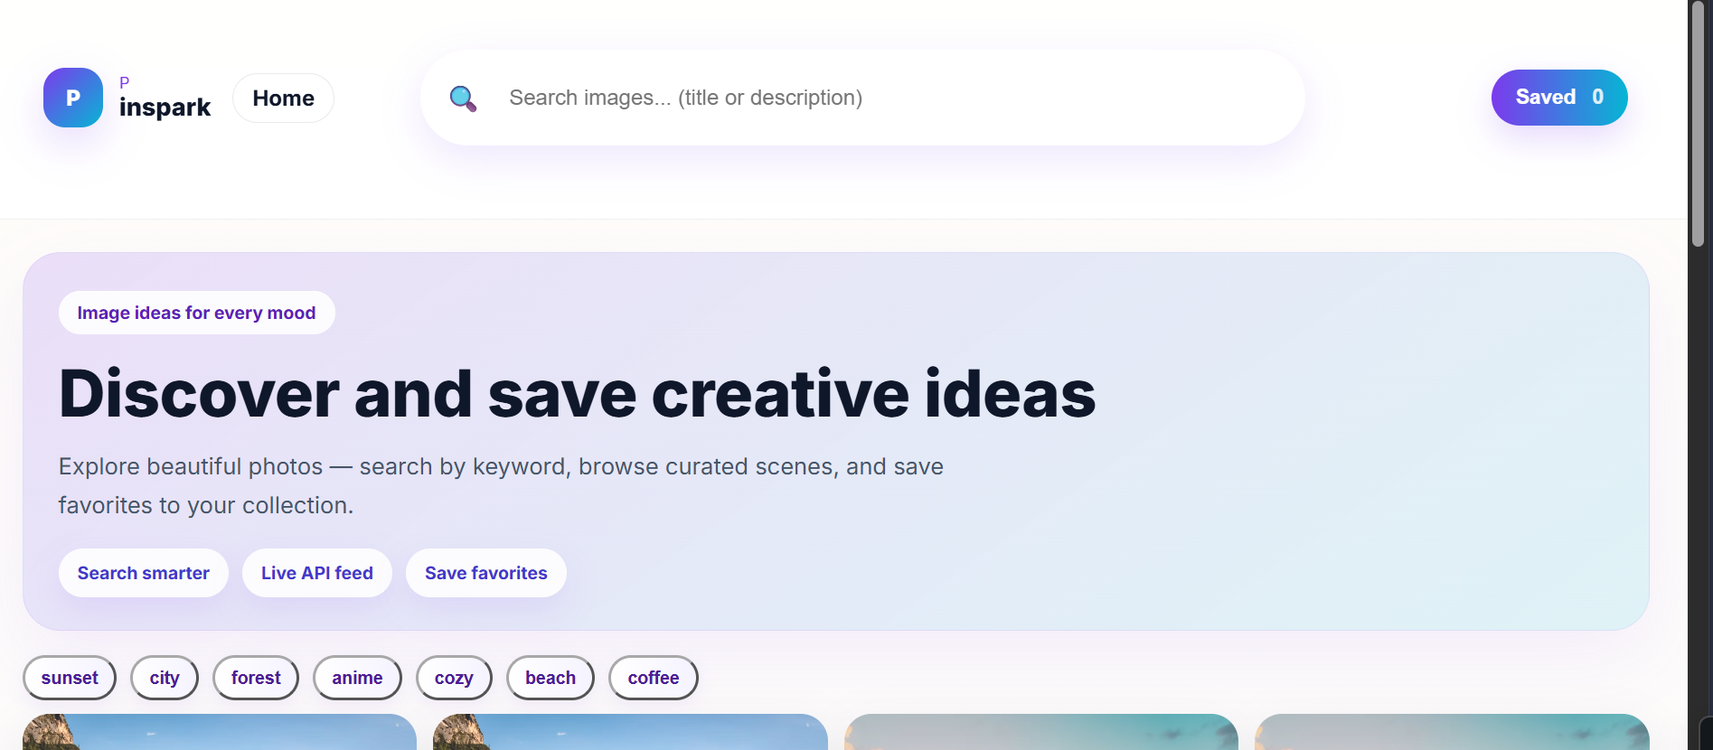
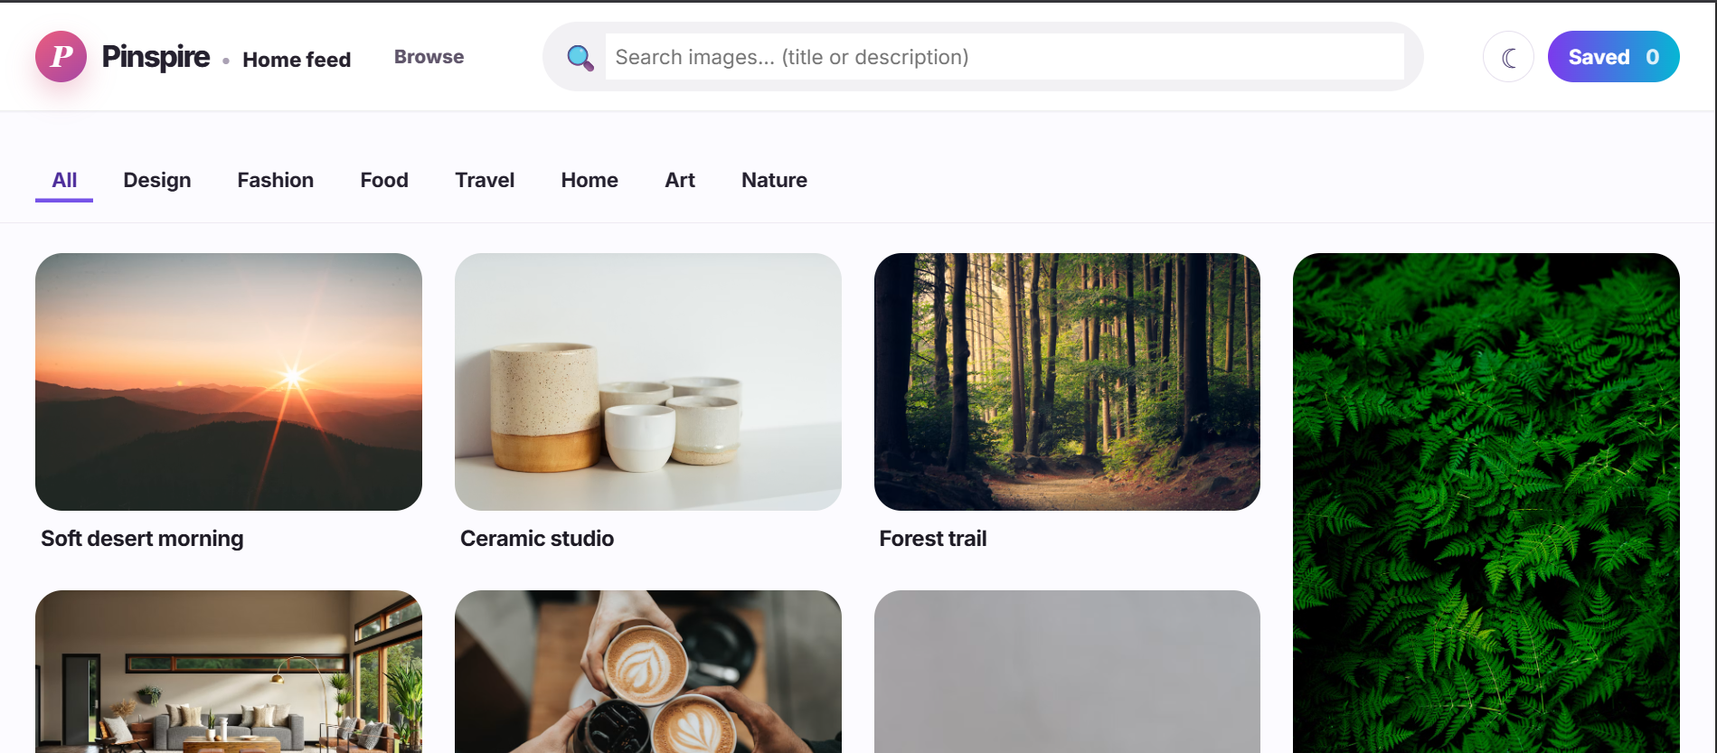
final commit

diff --git a/src/styles.css b/src/styles.css
@@ -1,47 +1,58 @@
-:root {
-  --gap: 12px;
-}
-body { font-family: Inter, system-ui, Arial, sans-serif; margin:0; background: linear-gradient(180deg, #fffdf9 0%, #f8f7ff 100%); color: #111 }
-.site-header { padding: 12px 20px; border-bottom: 1px solid rgba(2,6,23,0.06); background: rgba(255,255,255,0.82); backdrop-filter: blur(10px) }
-.top-nav { position: sticky; top: 0; z-index: 40; background: rgba(255,255,255,0.9) }
+:root { --gap: 16px; --ink: #20242d; --purple: #7653e8; }
+* { box-sizing: border-box; }
+body { font-family: Inter, ui-sans-serif, system-ui, -apple-system, BlinkMacSystemFont, "Segoe UI", sans-serif; margin:0; background: #fcfbff; color: var(--ink) }
+.site-header { padding: 12px 20px; border-bottom: 1px solid rgba(32,36,45,0.07); background: rgba(255,255,255,0.86); backdrop-filter: blur(18px) saturate(1.2) }
+.top-nav { position: sticky; top: 0; z-index: 40; }
 .logo a { font-weight: 700; font-size: 20px; color: #0f172a; text-decoration: none }
-.container { padding: 24px; max-width: 1200px; margin: 0 auto }
+.container { padding: 28px 24px; max-width: 1360px; margin: 0 auto }
 .main-area { padding-bottom: 64px }
-.hero { padding: 28px 26px 24px; background: linear-gradient(145deg, rgba(124,58,237,0.15), rgba(6,182,212,0.12)); border-radius: 28px; margin-bottom: 18px; border: 1px solid rgba(124,58,237,0.08); box-shadow: 0 18px 50px rgba(124,58,237,0.08); }
-.hero-badge { display: inline-flex; align-items: center; gap: 8px; padding: 8px 14px; margin-bottom: 18px; border-radius: 999px; background: rgba(255,255,255,0.88); font-size: 13px; font-weight: 700; color: #5b21b6; box-shadow: inset 0 1px 0 rgba(255,255,255,0.7); }
-.hero-title { margin: 0; font-size: clamp(32px, 4vw, 48px); color:#0f172a; letter-spacing:-0.4px; font-weight:800; line-height:1.05 }
-.hero-sub { margin: 14px 0 0; color:#475569; font-size: 17px; max-width: 720px; line-height:1.7 }
-.hero-row { margin-top: 18px; display:flex; flex-wrap:wrap; gap: 10px }
-.pill { padding: 10px 14px; border-radius:999px; background: rgba(255,255,255,0.88); color:#4338ca; font-weight:700; font-size:13px; box-shadow: 0 10px 24px rgba(124,58,237,0.10); }
-.site-header .header-inner { display:grid; grid-template-columns: 260px minmax(640px, 1fr) 220px; align-items:center; gap:18px }
+.hero { position:relative; isolation:isolate; overflow:hidden; padding:25px 34px; min-height:126px; background:linear-gradient(120deg,#241b43 0%,#4a2d87 52%,#7a4db2 100%); border-radius:24px; margin-bottom:20px; box-shadow:0 18px 42px rgba(66,43,129,.20); }
+.hero > :not(.hero-glow) { position:relative; z-index:2; }
+.hero-glow { position:absolute; z-index:1; border-radius:50%; pointer-events:none; }
+.hero-glow-one { width:180px; height:180px; right:-25px; top:-95px; background:rgba(255,183,105,.45); }
+.hero-glow-two, .hero-sub, .hero-row { display:none; }
+.hero-badge { display:inline-flex; align-items:center; gap:8px; padding:8px 12px; margin-bottom:20px; border-radius:999px; background:rgba(255,255,255,.14); border:1px solid rgba(255,255,255,.24); font-size:12px; font-weight:700; color:#fff; }
+.hero-kicker { margin:0 0 5px; color:#d7caff; font-size:12px; letter-spacing:.1em; text-transform:uppercase; font-weight:700; }
+.hero-kicker strong { color:#fff; }
+.hero-title { margin:0; max-width:700px; font-size:clamp(32px,4vw,44px); color:#fff; letter-spacing:-.055em; font-weight:800; line-height:1 }
+.hero-title span { color:#f8c767; }
+.hero-sub { margin:9px 0 0; color:rgba(255,255,255,.82); font-size:15px; max-width:570px; line-height:1.5 }
+.hero-row { margin-top:15px; display:flex; flex-wrap:wrap; gap:8px }
+.pill { padding:9px 13px; border-radius:999px; background:rgba(255,255,255,.12); border:1px solid rgba(255,255,255,.16); color:#fff; font-weight:650; font-size:13px; }
+.site-header .header-inner { display:grid; grid-template-columns:275px minmax(240px,1fr) 150px; align-items:center; gap:22px; padding-top:0; padding-bottom:0 }
 .left-block { display:flex; align-items:center; gap:16px }
-.brand-link { display:flex; align-items:center; gap:12px; text-decoration:none }
+.brand-link { display:flex; align-items:center; gap:11px; text-decoration:none }
 .brand { display:flex; align-items:center; gap:12px }
-.brand-icon { width:44px; height:44px; border-radius:16px; background:linear-gradient(135deg,#7c3aed,#06b6d4); color:#fff; font-weight:800; display:grid; place-items:center; box-shadow:0 12px 30px rgba(124,58,237,0.18) }
+.brand-icon { width:46px; height:46px; border-radius:15px; background:linear-gradient(145deg,#eb5d7e,#a747a4); color:#fff; font-size:25px; font-family:Georgia,serif; font-weight:800; font-style:italic; display:grid; place-items:center; box-shadow:0 9px 20px rgba(210,71,112,.28) }
 .brand-text { display:flex; flex-direction:column; justify-content:center }
-.brand-label { font-size:12px; letter-spacing:2px; text-transform:uppercase; color:#7c3aed; }
-.brand-name { font-size:18px; font-weight:800; color:#0f172a; }
+.brand-label { font-size:9px; line-height:1; letter-spacing:1.2px; text-transform:uppercase; color:#8b8594; font-weight:800; order:2; margin-top:3px; }
+.brand-name { font-size:24px; line-height:.95; letter-spacing:-1.25px; font-weight:850; color:#25212f; }
 .nav-left { display:flex; gap:10px; align-items:center }
-.nav-pill { background:#fff; border-radius:999px; padding:8px 14px; border:1px solid rgba(71,85,105,0.12); text-decoration:none; color:#0f172a; font-weight:700; transition: transform .2s ease, box-shadow .2s ease }
+.nav-pill { background:#f1eef9; border-radius:999px; padding:9px 15px; border:1px solid transparent; text-decoration:none; color:#493b70; font-size:14px; font-weight:750; transition:transform .2s ease,box-shadow .2s ease }
 .nav-pill:hover { transform: translateY(-1px); box-shadow: 0 10px 24px rgba(124,58,237,0.10) }
 .center-block { display:flex; justify-content:center }
 .center-block .search { width: 100%; max-width: 980px }
 .right-block { display:flex; align-items:center; gap:12px; justify-self:end }
-.saved-pill { padding: 14px 22px; border-radius:999px; background: linear-gradient(90deg,#7c3aed,#06b6d4); color:#fff; font-weight:800; font-size:15px; box-shadow:0 14px 30px rgba(124,58,237,0.20); border:none }
+.theme-toggle { width:40px; height:40px; padding:0; display:grid; place-items:center; border:1px solid #e5dfed; border-radius:50%; background:#fff; color:#493b70; font-size:20px; cursor:pointer; transition:transform .2s ease,background .2s ease; }
+.theme-toggle:hover { transform:translateY(-2px); background:#f1eef9; }
+.saved-pill { padding:12px 18px; border-radius:999px; background:#292332; color:#fff; font-weight:800; font-size:14px; box-shadow:0 10px 22px rgba(32,27,39,.16); border:none; cursor:pointer; transition:transform .2s ease,box-shadow .2s ease }
+.saved-pill:hover { transform:translateY(-2px); box-shadow:0 14px 26px rgba(32,27,39,.24); }
 .saved-count { margin-left: 8px; opacity:0.85; }
 .icon-btn { background:transparent; border:none; font-size:18px; cursor:pointer }
 .nav-link { color:#374151; text-decoration:none; font-weight:600 }
 .avatar { width:36px; height:36px; display:inline-grid; place-items:center; background:linear-gradient(135deg,#7c3aed,#06b6d4); color:#fff; border-radius:999px; font-weight:700 }
 .saved-pill { padding: 12px 18px; border-radius:999px; background: linear-gradient(90deg,#7c3aed,#06b6d4); color:#fff; font-weight:700; font-size:15px; box-shadow:0 10px 24px rgba(124,58,237,0.18) }
 .search { margin: 18px 0 }
-.search-inner { display:flex; align-items:center; gap:10px; background:#fff; border-radius:999px; padding:14px 18px; box-shadow:0 10px 30px rgba(124,58,237,0.12) }
+.search-inner { display:flex; align-items:center; gap:10px; background:#f6f4fa; border:1px solid transparent; border-radius:999px; padding:11px 17px; box-shadow:none; transition:background .2s ease,border-color .2s ease,box-shadow .2s ease }
+.search-inner:focus-within { background:#fff; border-color:rgba(118,83,232,.35); box-shadow:0 0 0 4px rgba(118,83,232,.10); }
 .search input { flex:1; border: none; outline: none; font-size:16px; padding:12px 10px; color:#111827 }
 .search-icon { font-size:20px; color:#8b5cf6 }
 .search-clear { background:transparent; border:none; cursor:pointer; font-size:15px; color:#6b7280 }
 .search-note { margin: 12px 0; padding: 12px 16px; border-radius: 10px; background: #f8fafc; color: #334155; font-size: 14px; border: 1px solid #e2e8f0 }
-.chip-row { margin:14px 0 10px; display:flex; flex-wrap:wrap; gap:10px }
+.chip-row { margin:2px 0 18px; display:flex; flex-wrap:wrap; gap:10px }
 .chips { margin:12px 0; display:flex; gap:8px }
-.chip { padding:7px 12px; background:linear-gradient(90deg,#ffffff,#f5f3ff); border-radius:999px; box-shadow:0 4px 12px rgba(124,58,237,0.08); cursor:pointer; font-size:13px; color:#4c1d95; font-weight:600 }
+.chip { border:1px solid #e6e1ef; padding:8px 14px; background:#fff; border-radius:999px; box-shadow:none; cursor:pointer; font-size:13px; color:#55456f; font-weight:700; transition:all .18s ease }
+.chip:hover { background:#f0ebfc; border-color:#cfc0f0; transform:translateY(-1px); }
 .masonry { column-count:5; column-gap: var(--gap); }
 .provider-switch { display:inline-flex; gap:8px; margin: 8px 0 18px }
 .provider-btn { padding:6px 10px; border-radius:8px; border:1px solid #e6eef8; background:#fff; cursor:pointer; font-weight:600 }
@@ -60,10 +71,10 @@ body { font-family: Inter, system-ui, Arial, sans-serif; margin:0; background: l
 .item-title { font-weight:600 }
 .item-actions { margin-top:6px }
 .collections-nav .chip { display:block; width:100%; text-align:left; margin-bottom:8px }
-.pin { break-inside: avoid; margin-bottom: var(--gap); background: linear-gradient(180deg,#ffffff,#f8f6ff); border-radius: 20px; overflow: hidden; box-shadow: 0 14px 36px rgba(15,23,42,0.09); transition: transform .22s ease, box-shadow .22s ease }
-.pin:hover { transform: translateY(-10px); box-shadow: 0 34px 70px rgba(15,23,42,0.16) }
+.pin { break-inside:avoid; margin-bottom:var(--gap); background:#fff; border-radius:18px; overflow:hidden; box-shadow:0 7px 22px rgba(45,34,63,.09); transition:transform .22s ease,box-shadow .22s ease }
+.pin:hover { transform:translateY(-7px); box-shadow:0 22px 44px rgba(45,34,63,.18) }
 .pin img { width: 100%; display: block; border-bottom: 1px solid rgba(15,23,42,0.06); object-fit: cover; min-height: 240px; }
-.pin-title { padding: 14px 16px; font-size: 15px; color:#111827; font-weight:700; line-height:1.35 }
+.pin-title { padding:13px 15px; font-size:15px; color:#111827; font-weight:700; line-height:1.35; display:-webkit-box; -webkit-box-orient:vertical; -webkit-line-clamp:2; overflow:hidden; }
 .pin-link { display:block; text-decoration:none; color:inherit }
 
 
@@ -73,8 +84,19 @@ body { font-family: Inter, system-ui, Arial, sans-serif; margin:0; background: l
 }
 @media (max-width: 1100px) {
   .masonry { column-count: 3 }
+  .site-header .header-inner { grid-template-columns:245px minmax(180px,1fr) auto; gap:12px }
 }
 @media (max-width: 700px) {
+  .site-header { padding:10px 12px; }
+  .site-header .header-inner { grid-template-columns:1fr auto; gap:10px; }
+  .center-block { grid-column:1 / -1; grid-row:2; }
+  .center-block .search { margin:0; }
+  .nav-left { display:none; }
+  .brand-name { font-size:22px; }
+  .brand-icon { width:40px; height:40px; font-size:22px; }
+  .hero { padding:25px 22px; min-height:0; border-radius:20px; }
+  .hero-title { font-size:36px; }
+  .hero-sub { font-size:15px; }
   .masonry { column-count: 2 }
 }
 @media (max-width: 420px) {
@@ -107,3 +129,119 @@ body { font-family: Inter, system-ui, Arial, sans-serif; margin:0; background: l
 .site-footer .container { display:flex; align-items:center; justify-content:space-between; padding:16px 24px }
 .small { font-size:13px }
 .muted { color:#6b7280 }
+
+/* Home feed layout */
+.site-header { padding:14px 26px; background:#fff; }
+.site-header .header-inner { grid-template-columns:auto minmax(280px, 1fr) auto; max-width:none; padding:0; gap:30px; }
+.left-block { gap:18px; }
+.brand-icon { width:38px; height:38px; border-radius:50%; font-size:22px; }
+.brand-text { flex-direction:row; align-items:baseline; gap:9px; }
+.brand-name { font-size:22px; }
+.brand-label { order:initial; margin:0; font-size:15px; letter-spacing:0; text-transform:none; color:#27222e; font-weight:750; }
+.brand-label::before { content:"•"; margin-right:9px; color:#aaa1b4; }
+.nav-pill { padding:8px 13px; background:transparent; color:#60566b; }
+.center-block .search { margin:0; max-width:650px; }
+.search-inner { background:#f2f1f4; padding:8px 14px; }
+.search input { padding:8px 7px; font-size:15px; }
+.right-block { gap:10px; }
+.theme-toggle { width:38px; height:38px; }
+.saved-pill { padding:10px 15px; box-shadow:none; }
+.main-area { max-width:none; padding:20px 26px 64px; }
+.hero { display:none; }
+.chip-row { position:sticky; top:67px; z-index:20; margin:0 -26px 22px; padding:13px 26px 15px; background:rgba(252,251,255,.93); border-bottom:1px solid #eeeaf2; backdrop-filter:blur(12px); flex-wrap:nowrap; overflow-x:auto; }
+.chip { border:0; padding:8px 12px; background:transparent; color:#25212f; border-radius:4px; font-size:15px; white-space:nowrap; }
+.chip:hover { background:#f0ecf5; border-color:transparent; transform:none; }
+.chip.active { color:#4d2d9b; box-shadow:inset 0 -3px 0 #7653e8; border-radius:0; }
+.masonry { column-gap:24px; }
+.pin { margin-bottom:27px; border-radius:20px; box-shadow:none; background:transparent; overflow:visible; }
+.pin:hover { transform:none; box-shadow:none; }
+.pin figure { overflow:hidden; border-radius:20px; background:#eee; }
+.pin img { border:0; min-height:0; }
+.pin-title { padding:10px 4px 0; color:#1e1b25; font-size:16px; }
+.overlay { border-radius:20px; }
+
+@media (max-width:700px) {
+  .site-header { padding:11px 14px; }
+  .site-header .header-inner { grid-template-columns:1fr auto; }
+  .brand-label, .nav-left { display:none; }
+  .main-area { padding:16px 14px 48px; }
+  .chip-row { top:103px; margin:0 -14px 18px; padding:11px 14px 13px; }
+  .masonry { column-gap:12px; }
+  .pin { margin-bottom:18px; }
+}
+
+/* Dark theme */
+.dark-theme body { background:#17151d; color:#f4f1f8; }
+.dark-theme .site-header { background:rgba(27,24,34,.88); border-color:rgba(255,255,255,.09); }
+.dark-theme .brand-name { color:#faf8ff; }
+.dark-theme .brand-label { color:#b7afc3; }
+.dark-theme .nav-pill { background:#332d41; color:#f0eaff; }
+.dark-theme .theme-toggle { background:#332d41; border-color:#4b435c; color:#ffe49a; }
+.dark-theme .theme-toggle:hover { background:#41394f; }
+.dark-theme .saved-pill { background:#f1ecf8; color:#292332; box-shadow:none; }
+.dark-theme .search-inner { background:#2a2632; }
+.dark-theme .search-inner:focus-within { background:#332e3e; border-color:#9276e9; }
+.dark-theme .search input { background:transparent; color:#f8f5ff; }
+.dark-theme .search-clear { color:#c7bed2; }
+.dark-theme .chip { background:#28232f; border-color:#443c50; color:#e7ddf5; }
+.dark-theme .chip:hover { background:#393143; border-color:#74638d; }
+.dark-theme .pin, .dark-theme .collections-panel, .dark-theme .collection-item, .dark-theme .site-footer { background:#27222e; }
+.dark-theme .pin-title, .dark-theme .item-title { color:#f6f2fb; }
+.dark-theme .collections-header, .dark-theme .collections-nav { border-color:#443c50; }
+.dark-theme .search-note { background:#282330; border-color:#443c50; color:#ddd5e8; }
+.dark-theme .muted, .dark-theme .no-results { color:#c6bdd2; }
+
+/* Dark feed refinements */
+.dark-theme body { background:#141219; color:#f5f1f8; }
+.dark-theme .site-header { background:rgba(22,19,28,.96); border-bottom-color:#302a38; }
+.dark-theme .brand-label { color:#beb5ca; }
+.dark-theme .brand-label::before { color:#746a80; }
+.dark-theme .nav-pill { background:#302940; color:#e7def2; }
+.dark-theme .nav-pill:hover { background:#40364f; }
+.dark-theme .search-inner { background:#292430; border-color:#332c3c; }
+.dark-theme .search-inner:focus-within { background:#302a38; border-color:#9a7cf2; box-shadow:0 0 0 4px rgba(154,124,242,.13); }
+.dark-theme .search-icon { color:#bd9cff; }
+.dark-theme .saved-pill { background:#eee8f7; color:#30283a; }
+.dark-theme .theme-toggle { background:#302940; border-color:#493e55; color:#ffd477; }
+.dark-theme .main-area { background:#141219; }
+.dark-theme .chip-row { background:rgba(25,22,31,.96); border-bottom-color:#332c3c; }
+.dark-theme .chip { background:transparent; color:#cfc5da; }
+.dark-theme .chip:hover { background:#2e2837; color:#fff; }
+.dark-theme .chip.active { background:#302940; color:#fff; box-shadow:inset 0 -3px 0 #a985ff; }
+.dark-theme .pin { background:#211c28; border-radius:20px; padding-bottom:3px; }
+.dark-theme .pin figure { border-radius:18px 18px 0 0; }
+.dark-theme .pin-title { color:#f4eefb; padding:12px 13px 13px; }
+.dark-theme .pin:hover { background:#2a2432; }
+.dark-theme .overlay { border-radius:18px 18px 0 0; }
+
+/* Final interface polish */
+html { scroll-behavior:smooth; }
+button, input { font:inherit; }
+button:focus-visible, a:focus-visible, input:focus-visible { outline:3px solid rgba(118,83,232,.42); outline-offset:3px; }
+.site-header { box-shadow:0 1px 0 rgba(36,29,48,.04); }
+.brand-link { transition:opacity .18s ease; }
+.brand-link:hover { opacity:.82; }
+.search-inner { min-height:46px; border:1px solid transparent; }
+.search-icon { width:22px; text-align:center; }
+.search-clear { width:28px; height:28px; border-radius:50%; display:grid; place-items:center; }
+.search-clear:hover { background:rgba(89,73,117,.1); }
+.saved-pill, .theme-toggle { transition:transform .18s ease, background .18s ease, box-shadow .18s ease; }
+.saved-pill:active, .theme-toggle:active { transform:scale(.96); }
+.chip-row { scrollbar-width:none; }
+.chip-row::-webkit-scrollbar { display:none; }
+.chip { font-weight:700; letter-spacing:-.01em; }
+.pin { transition:background .2s ease, transform .2s ease; }
+.pin figure { aspect-ratio:auto; }
+.pin img { transition:transform .35s cubic-bezier(.2,.65,.3,1), filter .35s ease; }
+.pin:hover img { transform:scale(1.025); filter:brightness(.94); }
+.pin-title { letter-spacing:-.02em; }
+.overlay-actions .btn { background:#fff; color:#292332; box-shadow:0 8px 20px rgba(0,0,0,.2); }
+.overlay-actions .btn.saved { background:#8c69e8; color:#fff; }
+.collections-panel { border:1px solid rgba(40,32,50,.12); border-radius:18px; box-shadow:0 28px 80px rgba(22,17,29,.25); }
+.collections-header { padding:18px 20px; }
+.collections-header h3 { margin:0; font-size:18px; letter-spacing:-.02em; }
+.collection-item { transition:background .18s ease; }
+.collection-item:hover { background:#f4f1f8; }
+.dark-theme .collections-panel { border-color:#403849; box-shadow:0 28px 80px rgba(0,0,0,.45); }
+.dark-theme .collection-item:hover { background:#302a38; }
+.dark-theme .overlay-actions .btn { background:#f6f1ff; color:#2d2338; }

diff --git a/src/pages/Home.jsx b/src/pages/Home.jsx
@@ -4,7 +4,7 @@ import MasonryGrid from '../shared/MasonryGrid'
 import data from '../data/sample.json'
 import { searchPexels } from '../lib/pexels'
 import { searchPixabay } from '../lib/pixabay'
-import { searchUnsplash } from '../lib/unsplash'
+import { searchPhotos as searchUnsplash } from '../lib/unsplash'
 import Footer from '../shared/Footer'
 
 export default function Home({ query, setQuery, onSave, onRemove, isSaved }) {
@@ -17,7 +17,7 @@ export default function Home({ query, setQuery, onSave, onRemove, isSaved }) {
   const hasPexelsKey = !!import.meta.env.VITE_PEXELS_API_KEY
   const hasPixabayKey = !!import.meta.env.VITE_PIXABAY_API_KEY
   const hasUnsplashKey = !!import.meta.env.VITE_UNSPLASH_API_KEY || !!import.meta.env.VITE_UNSPLASH_ACCESS_KEY
-  const suggestions = ['sunset', 'city', 'forest', 'anime', 'cozy', 'beach', 'coffee']
+  const suggestions = ['All', 'Design', 'Fashion', 'Food', 'Travel', 'Home', 'Art', 'Nature']
 
   const handleSuggestion = (value) => {
     setQuery(value)
@@ -100,19 +100,20 @@ export default function Home({ query, setQuery, onSave, onRemove, isSaved }) {
     <div className="page-root">
       <main className="container main-area">
         <div className="hero">
-          <div className="hero-badge">Image ideas for every mood</div>
-          <h1 className="hero-title">Discover and save creative ideas</h1>
+          <div className="hero-glow hero-glow-one" aria-hidden="true" />
+          <div className="hero-glow hero-glow-two" aria-hidden="true" />
+          <p className="hero-kicker">Discover ideas</p>
+          <h1 className="hero-title">Pinspire</h1>
           <p className="hero-sub">Explore beautiful photos — search by keyword, browse curated scenes, and save favorites to your collection.</p>
           <div className="hero-row">
-            <span className="pill">Search smarter</span>
-            <span className="pill">Live API feed</span>
-            <span className="pill">Save favorites</span>
+            <span className="pill">Explore</span>
+            <span className="pill">Save</span>
           </div>
         </div>
 
         <div className="chip-row">
           {suggestions.map(term => (
-            <button key={term} type="button" className="chip" onClick={() => handleSuggestion(term)}>
+            <button key={term} type="button" className={`chip ${(!query && term === 'All') || query.toLowerCase() === term.toLowerCase() ? 'active' : ''}`} onClick={() => handleSuggestion(term === 'All' ? '' : term)}>
               {term}
             </button>
           ))}

diff --git a/src/shared/Header.jsx b/src/shared/Header.jsx
@@ -2,20 +2,20 @@ import React from 'react'
 import { Link } from 'react-router-dom'
 import SearchBar from './SearchBar'
 
-export default function Header({ value, onChange, onToggleCollections, savedCount=0 }) {
+export default function Header({ value, onChange, onToggleCollections, savedCount=0, isDark, onToggleTheme }) {
   return (
     <header className="site-header top-nav">
       <div className="header-inner container">
         <div className="left-block">
           <Link to="/" className="brand-link">
-            <div className="brand-icon">P</div>
+            <div className="brand-icon" aria-hidden="true">P</div>
             <div className="brand-text">
-              <span className="brand-label">P</span>
-              <span className="brand-name">inspark</span>
+              <span className="brand-name">Pinspire</span>
+              <span className="brand-label">Home feed</span>
             </div>
           </Link>
           <nav className="nav-left">
-            <Link to="/" className="nav-pill">Home</Link>
+            <Link to="/" className="nav-pill">Browse</Link>
           </nav>
         </div>
 
@@ -24,6 +24,9 @@ export default function Header({ value, onChange, onToggleCollections, savedCoun
         </div>
 
         <div className="right-block">
+          <button className="theme-toggle" type="button" onClick={onToggleTheme} aria-label={`Switch to ${isDark ? 'light' : 'dark'} theme`} title={`Switch to ${isDark ? 'light' : 'dark'} theme`}>
+            <span aria-hidden="true">{isDark ? '☀' : '☾'}</span>
+          </button>
           <button className="saved-pill" onClick={onToggleCollections}>
             Saved <span className="saved-count">{savedCount}</span>
           </button>

diff --git a/src/App.jsx b/src/App.jsx
@@ -6,11 +6,13 @@ import Header from './shared/Header'
 import Collections from './shared/Collections'
 
 const STORAGE_KEY = 'pc_collections'
+const THEME_KEY = 'pc_theme'
 
 export default function App() {
   const [query, setQuery] = useState('')
   const [collections, setCollections] = useState({ Saved: [] })
   const [showCollections, setShowCollections] = useState(false)
+  const [isDark, setIsDark] = useState(() => localStorage.getItem(THEME_KEY) === 'dark')
 
   useEffect(() => {
     try {
@@ -24,6 +26,11 @@ export default function App() {
   useEffect(() => {
     try { localStorage.setItem(STORAGE_KEY, JSON.stringify(collections)) } catch (e) {}
   }, [collections])
+
+  useEffect(() => {
+    document.documentElement.classList.toggle('dark-theme', isDark)
+    try { localStorage.setItem(THEME_KEY, isDark ? 'dark' : 'light') } catch (e) {}
+  }, [isDark])
 
   function savePin(pin, collection = 'Saved') {
     setCollections(prev => {
@@ -49,7 +56,7 @@ export default function App() {
 
   return (
     <div className="app-root">
-      <Header value={query} onChange={setQuery} onToggleCollections={() => setShowCollections(s => !s)} savedCount={Object.values(collections).reduce((s,a)=>s+a.length,0)} />
+      <Header value={query} onChange={setQuery} onToggleCollections={() => setShowCollections(s => !s)} savedCount={Object.values(collections).reduce((s,a)=>s+a.length,0)} isDark={isDark} onToggleTheme={() => setIsDark(value => !value)} />
       {showCollections && (
         <Collections
           collections={collections}

diff --git a/src/lib/unsplash.js b/src/lib/unsplash.js
@@ -1,6 +1,6 @@
-export async function searchUnsplash(query, perPage = 30) {
-  const key = import.meta.env.VITE_UNSPLASH_API_KEY || import.meta.env.VITE_UNSPLASH_ACCESS_KEY
-  if (!key) throw new Error('Unsplash API key not set')
+export async function searchPhotos(query, perPage = 30) {
+  const key = import.meta.env.VITE_UNSPLASH_ACCESS_KEY
+  if (!key) throw new Error('VITE_UNSPLASH_ACCESS_KEY not set')
 
   const url = `https://api.unsplash.com/search/photos?query=${encodeURIComponent(query)}&per_page=${perPage}`
   const res = await fetch(url, {
@@ -15,11 +15,11 @@ export async function searchUnsplash(query, perPage = 30) {
   }
 
   const json = await res.json()
-  return (json.results || []).map(item => ({
-    id: item.id,
-    title: item.description || item.alt_description || item.user?.name || 'Unsplash image',
-    description: item.alt_description || '',
-    image: item.urls?.regular || item.urls?.small || item.urls?.thumb,
-    tags: (item.tags || []).map(tag => tag.title || '').filter(Boolean),
+  return (json.results || []).map(r => ({
+    id: r.id,
+    title: r.description || r.alt_description || r.user?.name || 'Untitled',
+    description: r.alt_description || '',
+    image: r.urls?.regular,
+    tags: (r.tags || []).map(t => (t.title || t.title))
   }))
 }
